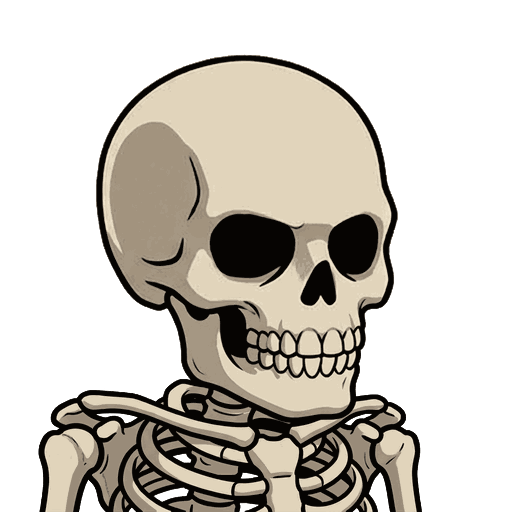
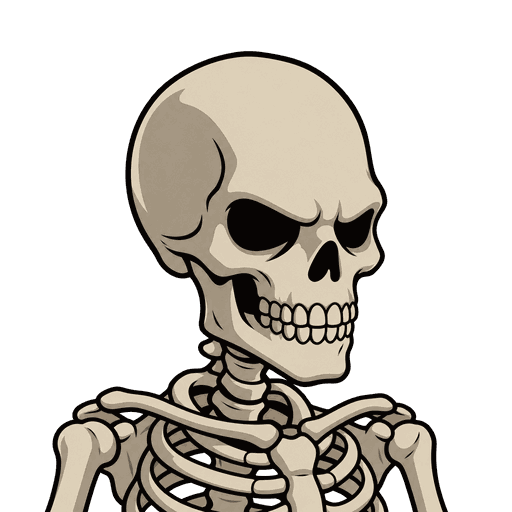
09-18 구현 — 페이퍼돌 착용 칸 강화 배지 · 스켈레톤 병사 변주 2종 · 임프 제사장 초상
- 페이퍼돌 착용 칸도 가방 칸처럼 오른쪽 위에 강화 +n 배지를 단다 (ADR-0169 · 0122 부분 대체)
- 1-3 스켈레톤 병사 1302·1303 을 같은 그림 셋에서 생성 변주(긴 두상 · 둥근 두상)로 교체 · align_faces.py READY
- 1402 임프 제사장 초상 설치 (imp_hood_rosary · 얼굴 정렬 k 1.20) · monster.csv face 0 → 1

Changed region(s): [[0.0625, 0.0938, 0.875, 1.0]]

diff --git a/src/ui/app.js b/src/ui/app.js
@@ -2037,10 +2037,12 @@ function paperdoll(h) {
             if (it) cell.style.borderColor = rarity(it.rarity).color;
             // 칸에는 글자가 없다 [2026-09-15 사용자 지시 · ADR-0122] — 부위는 실루엣이, 찬 칸은 그림과 툴팁이 말한다.
             //   부위 이름은 **빈 칸만** `title` 로 든다 — 찬 칸에 달면 아이템 툴팁 위에 브라우저 기본 툴팁이 겹친다
-            //   **예외 하나 — 아이템 레벨**이 찬 칸 오른쪽 아래에 선다 [2026-09-18 사용자 지시 · ADR-0168]:
-            //   그림도 칸 자리도 대신 말해 주지 못하는 개체값이라, 가방 칸과 견주려면 여기도 들어야 한다
+            //   **예외 — 찬 칸은 가방 칸과 같은 모서리 배지 둘**을 든다 [2026-09-18 사용자 지시]: 오른쪽 위 강화 `+n`(ADR-0169 · 0 이면 안 선다) ·
+            //   오른쪽 아래 아이템 레벨(ADR-0168). 둘 다 그림도 칸 자리도 대신 말해 주지 못하는 개체값이라, 가방 칸과 견주려면 여기도 들어야 한다
+            const us = it ? SYS.game.upgradeState(G, it.uid) : null;
             cell.innerHTML = (art ? `<span class="pd-art"><img src="${art}" alt="" loading="lazy" onerror="this.remove()"></span>`
                 : `<div class="pd-icon">${it ? itemImg(it) : def.icon}</div>`)
+                + (us && us.up > 0 ? `<span class="pd-up">+${us.up}</span>` : '')
                 + (it ? `<span class="pd-lv">${t('ch.itemLv', { n: it.ilvl })}</span>` : '');
             cell.setAttribute('aria-label', L(def));
             if (!it) cell.title = L(def);

diff --git a/src/ui/style.css b/src/ui/style.css
@@ -2342,9 +2342,10 @@ html[lang="en"] .ng-role { line-height: 1.2; }
 .inv-cells.salvage .inv-cell.filled:hover { background: var(--danger-cell-hover); }
 /* 강화 모드 — 클릭이 골드를 쓰므로 칸에 비용을 적는다 (SCREEN_DESIGN §6) */
 .inv-cell { position: relative; }
-.inv-up { position: absolute; top: 1px; right: 2px; font-size: var(--fs-xs); color: var(--color-warning); }
+/* 페이퍼돌 착용 칸도 같은 자리 · 같은 모양이다 (ADR-0169) */
+.inv-up, .pd-up { position: absolute; top: 1px; right: 2px; font-size: var(--fs-xs); color: var(--color-warning); }
 /* 오른쪽 아래 = **아이템 레벨** [2026-09-18 · ADR-0168] — 오른쪽 위 `+n`(유저가 쌓은 것)과 대각으로 마주 본다.
-   페이퍼돌 착용 칸도 같은 배지를 단다 — 칸에 서는 글자는 이것 하나다(ADR-0122 의 「글자 없음」을 그만큼 대체).
+   페이퍼돌 착용 칸도 같은 배지 둘(`+n` · `Lv.n`)을 단다 — ADR-0122 의 「글자 없음」을 그만큼 대체한다(ADR-0168 · 0169).
    아이콘이 칸 가운데라 그림이 모서리까지 번진다 — 글자를 **검은 테두리로 둘러** 그림 위에서도 읽게 한다.
    칸 배경색 그림자로는 모자랐다: 밝은 그림 위에서 글자가 묻혔다(2026-09-18 실측) */
 .inv-lv, .pd-lv {

diff --git a/.claude/skills/art-prompt/align_faces.py b/.claude/skills/art-prompt/align_faces.py
@@ -10,7 +10,7 @@ monster_idx 자리에 `'3201_elite'` 처럼 문자열을 넣으면 그 이름으
     python - <<'X'
     import sys; sys.path.insert(0, '.claude/skills/art-prompt')
     from align_faces import build, SPEC
-    for n in SPEC:
+    for n in (*SPEC, *READY):
         img, idx = build(n); img.save('src/assets/art/faces/cartoon/monster/%s.png' % idx)
     X
 """
@@ -46,12 +46,8 @@ SPEC = {
  'goblin_helm_dark'        : ('goblin_troop_2', (1035, 0, 2048, 1013),    333.5, 245.7, 1.046, 1102, 70, 16),
  'goblin_skull_helm_dark'  : ('goblin_troop_2', (0, 1035, 1013, 2048),    296.8, 246.1, 1.037, 1103, 58, 20),
  'goblin_feather_skull_elite': ('goblin_elite', (0, 1035, 1013, 2048),   296.8, 246.1, 1.037, '1103_elite', 58, 20),   # 정예 — 기본판과 같은 구도라 같은 값 · 1-1 정예는 주술사뿐이라 1 · 2번 타일은 안 쓴다
- # 1-3 은 스켈레톤 병사 하나뿐이라 세 자리가 **같은 그림**이다 (2026-09-18 사용자 지시)
- # 3차 판은 시트가 아니라 흰 배경 단일 초상 · 2차 판의 두개골을 그대로 두고 몸만 갈비뼈로 바꾼 편집본이라
- # 눈 중점(303, 245)이 2차 판과 같고 배율이 1.0 이다
+ # 1301 은 기준 맨몸 해골. 1302·1303 은 아래 READY 에 든 생성 변주다.
  'skeleton_bare_ribcage_1301': ('skel_soldier_3', (0, 0, 2048, 2048),   303.0, 245.0, 1.0, 1301, 47, 30),
- 'skeleton_bare_ribcage_1302': ('skel_soldier_3', (0, 0, 2048, 2048),   303.0, 245.0, 1.0, 1302, 47, 30),
- 'skeleton_bare_ribcage_1303': ('skel_soldier_3', (0, 0, 2048, 2048),   303.0, 245.0, 1.0, 1303, 47, 30),
  'orc_helm_tusk_pauldron'  : ('orc_troop_2', (0, 0, 506, 506),   317, 217, 1.35, 2101,   0,   4),
  'orc_hood_braid_quiver'   : ('orc_troop_2', (518, 0, 1024, 506),309, 220, 1.31, 2102,   0,   4),
  'orc_coral_skull_crown'   : ('orc_troop_2', (0, 518, 506, 1024),309, 214, 1.22, 2103,   0,   4),
@@ -61,12 +57,19 @@ SPEC = {
  'skeleton_bloodied_greathelm': ('skel_el', (0, 1035, 1013, 2048), 317.0, 255.1, 1.004, '3203_elite', 50, 30),  # 정예 — 3203 에 맞춤
  'dullahan_skull_in_hand'  : ('dullahan', (516, 0, 1024, 508),  169.0, 285.5, 1.25, 1350, -31,  35),  # 머리를 손에 든 구도 — 두개골을 왼쪽에 둬야 빈 목·척추가 원 안에 든다
 }
+# 이미 투명 배경으로 생성된 단일 초상 — (원본 파일, 설치 크기, 설치 위치, monster idx).
+# 크기·위치는 1301 의 두개골 크기와 눈높이를 기준으로 화면에서 맞췄다.
+READY = {
+ 'skeleton_bare_longskull_1302': ('skeleton_bare_longskull.png', 486, (13, 26), 1302),
+ 'skeleton_bare_roundskull_1303': ('skeleton_bare_roundskull.png', 461, (25, 51), 1303),
+}
 # 인물 안에 갇힌 초록(발광 등)이 키잉에 뚫린 자리를 메운다 — 512 타일 좌표 상자 안에서, 바깥 배경과 이어지지 않고
 # 빨강·파랑이 남아 있는(max(r,b) >= 60) 반투명만. 배경 초록(r·b ≈ 0~25)이 이빨 사이처럼 갇힌 틈은 그대로 비운다
 FILL = {'goblin_feather_skull_elite': (395, 30, 480, 160)}   # 지팡이 두개골 입속 룬 빛
 EYE = (256, 215)     # 눈 중심이 앉을 자리 (dx/dy 를 더하면 실효 y ≈ 240)
 S = 512
 ART = 'src/assets/art/faces/source/sheets/'   # 원본 시트 — 2026-09-16 정리로 sheets/ 아래로 내려갔다
+READY_ART = 'src/assets/art/faces/source/monster/'
 
 
 def key_green(tile):
@@ -121,6 +124,17 @@ def fill_holes(tile, box):
 
 
 def build(name, eye=EYE):
+    if name in READY:
+        filename, n, xy, idx = READY[name]
+        tile = Image.open(READY_ART + filename).convert('RGBA')
+        ca = np.array(tile).astype(float); al = ca[:, :, 3:4] / 255
+        pm = Image.fromarray(np.concatenate([ca[:, :, :3] * al, ca[:, :, 3:4]], 2).astype(np.uint8))
+        pm = np.array(pm.resize((n, n), Image.LANCZOS)).astype(float)
+        a2 = np.maximum(pm[:, :, 3:4], 1)
+        fitted = Image.fromarray(np.concatenate([np.clip(pm[:, :, :3] * 255 / a2, 0, 255), pm[:, :, 3:4]], 2).astype(np.uint8))
+        canvas = Image.new('RGBA', (S, S), (0, 0, 0, 0))
+        canvas.alpha_composite(fitted, xy)
+        return canvas, idx
     sheet_key, box, ex, ey, k, idx, dx, dy = SPEC[name]
     sheet = Image.open(ART + SHEETS[sheet_key]).convert('RGBA')
     keyer = key_white if sheet_key in WHITE_BG else key_green

diff --git a/docs/client/SCREEN_DESIGN.md b/docs/client/SCREEN_DESIGN.md
@@ -498,7 +498,7 @@
 
 | 패널 | 보여준다 | 결정 |
 |---|---|---|
-| 장비 | **페이퍼돌** — 신체 위치대로 착용 위치 8 (부위 7, 반지 ×2). 3열 × 3행: 투구·목걸이 / 무기·갑옷·장갑 / 반지·신발·반지 (2026-09-01 재배치 — 보조 슬롯 폐지로 4행 → 3행). 희귀도 색 테두리 · **잠기는 칸은 없다**(전 무기가 양손이라 배타가 사라졌다) · **제목 옆 집계는 없다** ([ADR-0041](adr/0041-집계-줄-폐기-네-칸의-제목은-이름뿐이다.md)) · **빈 칸은 부위 실루엣**을 깔고 이모지를 안 깐다 ([ADR-0025](adr/0025-미장착-칸-는-부위-실루엣.md)) · **칸 안의 글자는 아이템 레벨 하나** — 찬 칸 오른쪽 아래에 `Lv.n`([ADR-0168](adr/0168-아이템-칸-오른쪽-아래에-아이템-레벨이-선다.md)) · 부위 이름은 빈 칸의 `title` 이 든다 ([ADR-0122](adr/0122-페이퍼돌-칸에는-글자가-없다.md)) · **착용 칸은 아이템 그림**(§2 · 방어구는 개체 `baseId` 의 그림 — 지금은 갑옷만 있다) | 착용 칸 클릭 = **해제** |
+| 장비 | **페이퍼돌** — 신체 위치대로 착용 위치 8 (부위 7, 반지 ×2). 3열 × 3행: 투구·목걸이 / 무기·갑옷·장갑 / 반지·신발·반지 (2026-09-01 재배치 — 보조 슬롯 폐지로 4행 → 3행). 희귀도 색 테두리 · **잠기는 칸은 없다**(전 무기가 양손이라 배타가 사라졌다) · **제목 옆 집계는 없다** ([ADR-0041](adr/0041-집계-줄-폐기-네-칸의-제목은-이름뿐이다.md)) · **빈 칸은 부위 실루엣**을 깔고 이모지를 안 깐다 ([ADR-0025](adr/0025-미장착-칸-는-부위-실루엣.md)) · **찬 칸의 글자는 모서리 배지 둘** — 가방 칸과 같다: 오른쪽 위 강화 `+n`(강화했을 때만 · [ADR-0169](adr/0169-페이퍼돌-착용-칸도-강화-단계를-든다.md)) · 오른쪽 아래 `Lv.n`([ADR-0168](adr/0168-아이템-칸-오른쪽-아래에-아이템-레벨이-선다.md)) · 부위 이름은 빈 칸의 `title` 이 든다 ([ADR-0122](adr/0122-페이퍼돌-칸에는-글자가-없다.md)) · **착용 칸은 아이템 그림**(§2 · 방어구는 개체 `baseId` 의 그림 — 지금은 갑옷만 있다) | 착용 칸 클릭 = **해제** |
 | | 접사 죄종 **태그** 집계 — 세트포인트 아님(폐기). 전술카드 조건이 이 숫자를 읽으므로 **카운터는 필수**다 (tactic_card_design.md §2-1) | |
 | 기본 옵션 | **제목 줄 오른쪽 끝에 죄종 칩** — 글자 · 테두리가 **그 죄종 색**(후보 카드 칩과 같은 문법) · **맨 위에 레벨 · 경험치** — 한 줄(왼쪽 `Lv.n` · 오른쪽 `경험치 현재 / 필요`) + 그 아래 **칸 폭 전부를 쓰는 얇은 막대**(약어 배지 없음 · 능력치 막대보다 얇다 — 시작 x 와 두께가 달라 여덟째 능력치로 안 읽힌다) · 능력치 막대와는 **선 없이 간격**으로만 가른다 · **만렙(`[balance.csv:hero_level_cap]`)이면 숫자 대신 `MAX` · 막대는 가득** — 줄이 안 사라져 영웅을 바꿔도 아래가 안 흔들린다 ([ADR-0129](adr/0129-레벨-경험치는-기본-옵션-칸-맨-위-능력치-막대-위에-선다.md)) · 그 아래 기본 능력치 7 막대 — **일곱 줄의 막대가 같은 x 에서 시작한다** · 막대 폭이 범위(`[balance.csv:hero_attr_min]` ~ `[balance.csv:hero_attr_max]`) 안의 자리를 든다 — **범위 숫자 줄은 없다** · 그 아래 **액티브 스킬** — 막대와의 사이 선은 **하나**(소제목 윗선) — 액티브 3 을 **정사각 카드**로. **찬 칸은 그림 하나뿐**이다 ([ADR-0040](adr/0040-스킬-칸-는-그림-하나.md)) (이름 · 초 · 효과 문장은 **툴팁이 든다**) · **칸 아래에 출처 글자** `영웅` · `무기` · `전직` — 빈 칸 아래에도 찍고, 이 칸의 툴팁은 출처 칩을 안 단다 ([ADR-0121](adr/0121-스킬-출처는-글자로-한-번만-선다-액티브-칸-아래에-적고-툴팁-칩은-관전만-단다.md)) · **빈 칸은 파선 네모 하나**(사유는 `title` 이 든다 — 칸이 아이콘 크기라 글자가 안 들어간다). 행동 주기는 **세부 옵션 2** 의 `action_period` 행이 든다 | **[스킬 트리 열기]** → 창이 뜬다 (§7) · **[해고]** → 창이 뜬다 (아래) |
 | 세부 옵션 1 · 2 | 전투 능력치 24 중 `impl=1` **22행**을 **두 칸에 나눠 스크롤 없이** — **카테고리 제목 없이** `[combat_stat.csv:sheet_order]` 순서. **머리 3줄 = 대표값**(물리 데미지 · 마법 데미지 · 최대 HP): **글씨 크기는 본문과 같고** 값 굵기 + 그 아래 간격으로만 가른다 — **선은 없다**. **데미지 두 줄은 범위 `최소~최대`** 로 찍는다(양끝이 같으면 한 수 · [ADR-0108](adr/0108-무기-피해와-스킬-피해-회복량은-최소-최대-범위로-찍는다.md)). 1 = 대표 3 + 공격 나머지 + 물리 방어 + 저항 4 + 최대 저항 증가(13행) · 2 = 피해 감소부터 끝까지(9행 — 타격 회복이 행동 주기와 쿨타임 감소 사이에 선다). **칸마다의 집계도 약어도 안 붙인다** ([ADR-0041](adr/0041-집계-줄-폐기-네-칸의-제목은-이름뿐이다.md)) — 약어 배지는 **기본 옵션의 막대 줄에만** 선다. 저항 4행은 **값 + 그 원소의 현재 상한**(기본 상한 + 최대 저항 증가 + **그 원소의 최대 저항 증가**(투구 시기 칸 — 시트 행이 아니라 상한에만 먹는다 · 2026-09-18) — `formula.resCap`) · 물리 방어 행은 **값(정수로 반올림) + 감쇠율 %**(감쇠율은 반올림 전 값으로 낸다) | |
@@ -552,6 +552,7 @@
 - [ADR-0129](adr/0129-레벨-경험치는-기본-옵션-칸-맨-위-능력치-막대-위에-선다.md) 레벨 · 경험치는 기본 옵션 칸 맨 위, 능력치 막대 위에 선다 — 2026-09-15
 - [ADR-0166](adr/0166-기본-옵션-제목-오른쪽-끝에-죄종-칩이-선다.md) 기본 옵션 제목 오른쪽 끝에 죄종 칩이 선다 — 2026-09-18
 - [ADR-0168](adr/0168-아이템-칸-오른쪽-아래에-아이템-레벨이-선다.md) 아이템 칸 오른쪽 아래에 아이템 레벨이 선다 — 2026-09-18 **(0122 의 「찬 칸에 글자가 없다」를 그 배지 하나만큼 대체)**
+- [ADR-0169](adr/0169-페이퍼돌-착용-칸도-강화-단계를-든다.md) 페이퍼돌 착용 칸도 강화 단계를 든다 — 2026-09-18 **(0122 의 「찬 칸에 글자가 없다」를 강화 `+n` 만큼 더 대체)**
 
 ---
 

diff --git a/docs/client/adr/README.md b/docs/client/adr/README.md
@@ -67,12 +67,13 @@
 
 ## 인덱스
 
-**168건** — 살아 있는 결정 163 · 대체된 것 5. 번호는 **결정이 선 날 순**이다.
+**169건** — 살아 있는 결정 164 · 대체된 것 5. 번호는 **결정이 선 날 순**이다.
 
 > 이 표는 **ADR 파일들에서 생성한 파생 뷰**다 — 손으로 고치지 않는다. ADR 을 쓰거나 「대체됨」을 채운 뒤 `python docs/client/adr/_build_index.py` 를 돌린다.
 
 | 번호 | 제목 | 상태 | 화면 | 날짜 | 대체 관계 |
 |---|---|---|---|---|---|
+| 0169 | [페이퍼돌 착용 칸도 강화 단계를 든다](0169-페이퍼돌-착용-칸도-강화-단계를-든다.md) | 확정 | §6 | 2026-09-18 | [ADR-0122](0122-페이퍼돌-칸에는-글자가-없다.md) 중 **찬 칸의 강화 `+n`** — 부위 이름 줄 폐기 · 빈 칸 실루엣 · 찬 칸의 `title` 금지는 그대로 산다 를 대체 |
 | 0168 | [아이템 칸 오른쪽 아래에 아이템 레벨이 선다](0168-아이템-칸-오른쪽-아래에-아이템-레벨이-선다.md) | 확정 | §6 | 2026-09-18 | [ADR-0122](0122-페이퍼돌-칸에는-글자가-없다.md) 중 **찬 칸에 글자가 없다** — 이 배지 하나만. 부위 이름 줄 폐기 · 빈 칸 실루엣 · 찬 칸의 `title` 금지는 그대로 산다 를 대체 |
 | 0167 | [도감 몬스터 카드는 「일반 / 정예」 고르개로 초상만 가른다](0167-도감-몬스터-카드는-일반-정예-고르개로-초상만-가른다.md) | 확정 | §9 | 2026-09-18 | — |
 | 0166 | [기본 옵션 제목 오른쪽 끝에 죄종 칩이 선다](0166-기본-옵션-제목-오른쪽-끝에-죄종-칩이-선다.md) | 확정 | §6 | 2026-09-18 | [ADR-0041](0041-집계-줄-폐기-네-칸의-제목은-이름뿐이다.md) 중 **기본 옵션 칸의 제목**(「이름뿐」 → 오른쪽 끝에 죄종 칩) · [ADR-0023](0023-영웅에게-죄종-색을-주지-않는다.md) 중 **이 칩의 색**(무채색 → 그 죄종 색) 를 대체 |
@@ -119,7 +120,7 @@
 | 0125 | [강화 목록은 목걸이 · 반지를 빼지 않고 「강화 없음」으로 세운다](0125-강화-목록은-목걸이-반지를-빼지-않고-강화-없음으로-세운다.md) | 확정 | §8-2 | 2026-09-15 | — |
 | 0124 | [제련소는 제작 · 강화 · 크래프트 세 칸을 좌우로 나란히 둔다](0124-제련소는-제작-강화-크래프트-세-칸을-좌우로-나란히-둔다.md) | 확정 | §8-2 | 2026-09-15 | **[ADR-0142](0142-제련소는-제작-강화-크래프트를-위쪽-탭으로-가른다.md) (2026-09-15) 가 대체** |
 | 0123 | [리포트는 끝난 원정의 기록이다 — 도는 원정은 관전이 든다](0123-리포트는-끝난-원정의-기록이다-도는-원정은-관전이-든다.md) | 확정 | §4-3 | 2026-09-15 | [ADR-0072](0072-리포트가-곧-관전이다-최신-리포트의-기여-표는-재생을-따라-찬다.md) 의 **남은 것 전부**(기여 표가 시계를 따라 찬다 · 시계를 관전과 나눠 쓴다) · [ADR-0106](0106-원정-보상은-라운드를-이긴-순간-들어온다-관전은-재생이-아니라-진행이다.md) 리포트 조항의 **진행 중인 원정**(목록 맨 위 · 「진행 중」 판정 · 라운드마다 차는 목록 · 상세 · `진행 중 m:ss` 배지) 를 대체 |
-| 0122 | [페이퍼돌 칸에는 글자가 없다](0122-페이퍼돌-칸에는-글자가-없다.md) | 확정 | §6 | 2026-09-15 | **[ADR-0168](0168-아이템-칸-오른쪽-아래에-아이템-레벨이-선다.md) 이 **찬 칸의 아이템 레벨 배지**만 (글자 없음 → 오른쪽 아래 `Lv.n`). 부위 이름 줄 폐기 · 빈 칸 실루엣 · 찬 칸의 `title` 금지는 그대로 산다 — 2026-09-18 가 대체** |
+| 0122 | [페이퍼돌 칸에는 글자가 없다](0122-페이퍼돌-칸에는-글자가-없다.md) | 확정 | §6 | 2026-09-15 | **[ADR-0168](0168-아이템-칸-오른쪽-아래에-아이템-레벨이-선다.md) 이 **찬 칸의 아이템 레벨 배지**만 (글자 없음 → 오른쪽 아래 `Lv.n`). 부위 이름 줄 폐기 · 빈 칸 실루엣 · 찬 칸의 `title` 금지는 그대로 산다 — 2026-09-18 · [ADR-0169](0169-페이퍼돌-착용-칸도-강화-단계를-든다.md) 이 **찬 칸의 강화 `+n`**만 (글자 없음 → 오른쪽 위 `+n` · 가방 칸과 같은 배지 둘) — 2026-09-18 가 대체** |
 | 0121 | [스킬 출처는 글자로 한 번만 선다 · 액티브 칸 아래에 적고 툴팁 칩은 관전만 단다](0121-스킬-출처는-글자로-한-번만-선다-액티브-칸-아래에-적고-툴팁-칩은-관전만-단다.md) | 확정 | §6 | 2026-09-15 | [ADR-0040](0040-스킬-칸-는-그림-하나.md) 의 **칸 이름** 조항 를 대체 · **[ADR-0159](0159-고유-스킬-칸은-출처-글자-없이-그림-37px-로-선다.md) 이 **후보 카드 자리**만 (고유 태그가 출처를 든다 → 출처가 글자로도 칩으로도 안 선다 · 이 규칙의 예외). 나머지는 그대로 산다 가 대체** |
 | 0120 | [유닛 툴팁은 커서가 아니라 올린 카드 옆에 선다](0120-유닛-툴팁은-커서가-아니라-올린-카드-옆에-선다.md) | 확정 | §2 | 2026-09-15 ** | — |
 | 0119 | [유닛 툴팁의 대표값 3줄은 기본 카드에 늘 선다 · Alt 열은 나머지만 든다](0119-유닛-툴팁의-대표값-3줄은-기본-카드에-늘-선다-Alt-열은-나머지만-든다.md) | 확정 | §2 | 2026-09-15 ** | [ADR-0114](0114-유닛-툴팁은-캐릭터-탭-표기를-따른다-Alt-를-누르면-세부-옵션이-선다.md) 중 「세부 옵션을 상시로 두지 않는다」의 **대표값 3줄**만 · [ADR-0115](0115-유닛-툴팁의-세부-옵션은-두-열이다-머리글을-뺀다.md) 중 「세부 옵션 1 열 = 캐릭터 탭 세부 옵션 1 그대로」의 **머리 3줄**만. 끊는 자리 · 열 이름 · Alt 를 누르는 동안만은 그대로 산다 를 대체 |

diff --git a/src/assets/art/faces/cartoon/README.md b/src/assets/art/faces/cartoon/README.md
@@ -28,8 +28,11 @@
 | 1202 | 인간 궁수 [09-06 개명] | `wraith_masked_archer` | ◎ **제 그림** [09-10 교체] 짧게 친 머리 · 진홍 천으로 입을 가림 · 화살통 |
 | 1203 | 인간 기사 [09-06 개명] | `wraith_bald_captain` | ◎ **제 그림** [09-10 교체] 민머리 · 검은 수염 · 이마 흉터 · 큰 고리 걸쇠로 여민 진홍 망토 |
 | 1250 | **레기온** (스테이지 보스) | `legion_banner_longhair` | ◎ **제 그림** [09-18 새 시트] 인간 망령 셋의 장군 — 길게 늘어진 잿빛 머리 · 해골 얼굴 · 검은 판금 · 어깨 뒤 찢어진 진홍 군기. 얼굴 정렬 k 1.32 — 병사 셋과 같은 크기 · 눈높이. ⚠ 색 수 72(머리카락 결) |
-| 1301~1303 | 스켈레톤 병사 ×3 [09-17 개명] | `skeleton_bare_ribcage` | ◎ **제 그림** [09-18 교체] 맨 두개골 + **드러난 갈비뼈·쇄골** — 갑옷을 벗은 판이다. **세 자리가 같은 그림이다** — 1-3 은 스켈레톤 병사 하나뿐이다(사용자 지시). 두개골이 앞 판과 같은 자리라 눈 중점 `x 303 · y 245` 가 그대로고, 눈 사이 101px 로 3-2 스켈레톤 셋과 한 줄에 선다. **원본이 흰 배경이라 누끼 갈래가 다르다**(`align_faces.py:WHITE_BG`). 갑옷 판(`skeleton_bare_chainmail` 흙빛 · `skeleton_bare_rustmail` 붉은 녹빛)은 예비 |
+| 1301 | 스켈레톤 병사 | `skeleton_bare_ribcage` | ◎ 맨 두개골 + 드러난 갈비뼈·쇄골. 비교 기준 |
+| 1302 | 스켈레톤 병사 | `skeleton_bare_longskull` | ◎ **생성 변주** [09-18] 길고 좁은 두상 · 맨몸 뼈만. 의상·갑옷·무기 없음 |
+| 1303 | 스켈레톤 병사 | `skeleton_bare_roundskull` | ◎ **생성 변주** [09-18] 둥글고 넓은 두상 · 맨몸 뼈만. 의상·갑옷·무기 없음 |
 | 1350 | 둘라한 (스테이지 보스) | `dullahan_skull_in_hand` | ◎ **제 그림** [09-17 새 시트] 목 없는 판금 기사가 **제 두개골을 손에 들었다** — 빈 목깃 위로 척추가 솟는다. 얼굴 정렬 k 1.25 · ⚠ **두개골을 왼쪽(눈 중점 x 225)에 앉혔다** — 세트 기준(x ≈ 303)에 맞추면 빈 목이 원 밖으로 나가 둘라한으로 안 읽힌다 |
+| 1402 | 임프 제사장 | `imp_hood_rosary` | ◎ **제 그림** [09-18 새 시트 · `sheets/Gemini_Generated_Image_ggnll4ggnll4ggnl.png` 1번 타일] 기호를 새긴 후드 · 십자가 묵주 · 붉은 갈색 살결. **스테이지 4 첫 초상.** 얼굴 정렬 k 1.20 · 눈 중점 (312, 242) — 눈이 커서 눈 사이(127px)가 아니라 **얼굴 크기**를 후드 인물 2102 에 맞췄다 · 뿔 끝이 원에 조금 잘린다 |
 | 1900 | **사탄** (챕터 보스) | `satan_horns_chain` | ◎ **제 그림** [09-14] 붉은 살결 · 굽은 검은 숫양 뿔 · 목에 건 쇠사슬 · `size_type = 3`. 얼굴 정렬(§3-0) k 1.20 — 여섯 장보다 한 단계 크다 |
 | 2900 | **레비아탄** (챕터 2 챕터 보스) | `leviathan_skull_fangs` | ◎ **제 그림** [09-14] 청회 비늘 · 뼈색 두개골 얼굴 · 붉은 눈 · 송곳니 · `size_type = 3`. **챕터 2 첫 초상** · 얼굴 정렬 k 1.05 — 머리 크기를 사탄에 맞췄다 |
 | 2101 | 오크 전사 [09-16 신설] | `orc_helm_tusk_pauldron` | ◎ **제 그림** [09-17 교체] 철투구 + 뺨가리개 · 엄니를 박은 견갑 · 굵은 아래엄니. 얼굴 정렬 k 1.35 |

diff --git a/src/assets/art/faces/source/README.md b/src/assets/art/faces/source/README.md
@@ -225,15 +225,26 @@
 
 ## 몬스터 — Gem 스켈레톤 병사 3차 (`source_sheet_skeleton_soldier_3.png`) [2026-09-18]
 
-**지금 `1301~1303` 이 쓰는 그림**(사용자 지시로 아래 2차를 걷어내고 이것으로 갈았다). 시트가 아니라 **흰 배경 단일 초상 2048²** 이고, 2차 판의 두개골을 **픽셀 그대로** 두고 **몸만 드러난 갈비뼈·쇄골로** 바꾼 편집본이다 — 사슬 목가리개와 판금 어깨가 사라졌다.
+`1301` 이 쓰는 기준 그림이다. 시트가 아니라 **흰 배경 단일 초상 2048²** 이고, 2차 판의 두개골을 **픽셀 그대로** 두고 **몸만 드러난 갈비뼈·쇄골로** 바꾼 편집본이다 — 사슬 목가리개와 판금 어깨가 사라졌다. `1302·1303` 은 아래 맨몸 변주로 교체됐다.
 누끼가 이 한 장만 다르다 — 초록 키잉이 안 먹어(`d = 0`) **흰 배경 절차**를 탄다: near-white 판정 + 테두리 flood fill + 300px 이상 닫힌 포켓 제거([src/assets/art/README.md](../../README.md) 「누끼」). `align_faces.py` 의 `WHITE_BG` 가 그 갈래다.
 
 | 파일 | 타일 | 내용 | 배정 | 얼굴 정렬 |
 |---|---|---|---|---|
-| `skeleton_bare_ribcage.png` | 단일 | 맨 두개골 · 드러난 갈비뼈 · 쇄골 · 팔뼈 | `monster/1301` · `1302` · `1303` (**같은 그림 셋**) | `ex/ey 303.0/245.0` · k **1.0** · 눈 중점 `x 303 · y 245` |
+| `skeleton_bare_ribcage.png` | 단일 | 맨 두개골 · 드러난 갈비뼈 · 쇄골 · 팔뼈 | `monster/1301` | `ex/ey 303.0/245.0` · k **1.0** · 눈 중점 `x 303 · y 245` |
 
 두개골이 2차 판과 같은 자리라 **눈 중점·배율이 그대로**다(k 1.0 · 옮김 없음). 실측(누끼 원본) — `shldr` 75 · `headH` 63 · `colors` 47 · `hd/sh` **79**(갑옷을 벗어 어깨가 쇄골 폭으로 좁아졌다 — 2차 판 71) · ⚠ `edge` **21**(앵커 8~19 위 · 갈비뼈 선이 원인이고 2차 판 22 와 같은 수준).
 설치본은 256색 팔레트 PNG 라 `colors` 가 32 로 내려간다(다른 설치본 25~50 과 같은 대역) — 31KB.
+
+### 맨몸 변주 2종 [2026-09-18]
+
+`1301` 을 주 스타일 앵커로 이미지 생성 도구에서 한 장씩 만들었다. 둘 다 **투명 배경 · 맨 두개골 · 목뼈 · 쇄골 · 갈비뼈 · 팔뼈뿐**이며 의상·천·갑옷·투구·무기·화살통·장신구가 없다.
+
+| 원본 | 차이 | 설치본 |
+|---|---|---|
+| `monster/skeleton_bare_longskull.png` | 길고 좁은 두상 · 찌푸린 눈구멍 | `cartoon/monster/1302.png` |
+| `monster/skeleton_bare_roundskull.png` | 둥글고 넓은 두상 · 고른 눈구멍 | `cartoon/monster/1303.png` |
+
+생성 원본은 1254² RGBA다. `align_faces.py:READY`가 1301과 크기·눈높이를 맞춰 512²로 설치하고, 설치본은 다른 초상과 같은 256색 팔레트 PNG다. 셋은 나중에 스켈레톤 병사 한 종류를 고르기 위한 비교 후보이며, 현재 데이터 이름은 모두 `스켈레톤 병사`로 유지한다.
 
 ## 몬스터 — Gem 스켈레톤 병사 2차 (`source_sheet_skeleton_soldier_2.png`) [2026-09-18] → **같은 날 배정 해제 · 예비**
 

diff --git a/docs/client/adr/0169-페이퍼돌-착용-칸도-강화-단계를-든다.md b/docs/client/adr/0169-페이퍼돌-착용-칸도-강화-단계를-든다.md
@@ -1,0 +1,33 @@
+# ADR-0169 — 페이퍼돌 착용 칸도 강화 단계를 든다
+
+| | |
+|---|---|
+| **상태** | 확정 · 2026-09-18 |
+| **화면** | [SCREEN_DESIGN §6](../SCREEN_DESIGN.md) |
+| **정한 사람** | 사용자 지시 |
+| **대체** | [ADR-0122](0122-페이퍼돌-칸에는-글자가-없다.md) 중 **찬 칸의 강화 `+n`** — 부위 이름 줄 폐기 · 빈 칸 실루엣 · 찬 칸의 `title` 금지는 그대로 산다 |
+| **대체됨** | — |
+
+## 결정
+
+캐릭터 탭 페이퍼돌의 착용 칸도 **오른쪽 위에 강화 단계 `+n`** 을 단다 — 가방 칸과 같은 자리 · 같은 모양이고, 강화하지 않은 물건(0)에는 안 선다. 그래서 착용 칸의 글자는 **가방 칸과 같은 모서리 배지 둘**(위 `+n` · 아래 `Lv.n`)이 된다.
+
+## 맥락
+
+ADR-0168 로 착용 칸 오른쪽 아래에 아이템 레벨이 섰다. 강화 `+n` 은 가방 칸 · 리포트 드롭 칸에만 있었고 착용 칸에는 없었다 — ADR-0122 가 착용 칸의 글자를 전부 걷은 뒤로 강화 표시도 따라 빠진 채였다.
+
+사용자 지시: 「강화 수치가 착용한 아이템에는 안 보여」.
+
+## 근거
+
+- **강화는 착용한 물건에 쌓인다** — 제련소는 착용품도 강화 대상에 넣는다(§8-2). 가장 많이 강화되는 것이 끼고 있는 물건인데 그 칸만 단계를 안 들면, 강화한 결과를 보러 갈 자리가 툴팁 하나뿐이다
+- **가방 칸과 같은 문법** — 같은 물건이 가방에서는 `+3`, 끼면 사라지는 것은 「장착하면 강화가 풀린다」로 읽힐 수 있다. 자리 · 모양을 가방 칸과 똑같이 둔다
+- ADR-0122 가 걷은 것은 칸 자리가 이미 말하는 **부위 이름**이었다. 강화 단계는 레벨과 같이 **개체값**이라 그림도 자리도 대신 말해 주지 못한다(ADR-0168 과 같은 근거)
+
+## 파급
+
+- CSS — `.pd-up` 을 `.inv-up` 과 한 규칙에 묶는다(자리 · 크기 · 색이 같다)
+- i18n 키는 없다 — `+n` 은 가방 칸처럼 기호와 숫자뿐이다
+
+---
+*이 파일은 고치지 않는다. 결정이 뒤집히면 새 ADR 이 이것을 대체하고, 여기엔 「대체됨」 한 줄만 붙는다.*

diff --git a/docs/client/SCREEN_CHANGELOG.md b/docs/client/SCREEN_CHANGELOG.md
@@ -14,6 +14,7 @@
 
 ## 이력
 
+- **2026-09-18** — **페이퍼돌 착용 칸도 강화 `+n` 을 든다** [사용자 지시 · [ADR-0169](adr/0169-페이퍼돌-착용-칸도-강화-단계를-든다.md)] — 가방 칸과 같은 오른쪽 위 · 0 이면 안 선다. 착용 칸 글자 = 모서리 배지 둘(`+n` · `Lv.n`)
 - **2026-09-18** — **아이템 칸 오른쪽 아래에 아이템 레벨 `Lv.n`** [사용자 지시 · [ADR-0168](adr/0168-아이템-칸-오른쪽-아래에-아이템-레벨이-선다.md)] — 보관 · 리포트 드롭 · 페이퍼돌 착용 칸 셋 다. 오른쪽 위 강화 `+n` 과 마주 본다 · ADR-0122 「글자 없음」의 예외 하나
 - **2026-09-18** — **§2-1 로그인 화면 배경 = 챕터 1-1 스테이지 그림** [사용자 지시] — 전용 `login.webp` 를 안 읽고 `illustrate/background_stage_101.webp` 를 깐다 · 로그인은 스타일 설정 이전이라 CSS 가 폴더를 박는다(거점과 같은 예외)
 - **2026-09-18** — **§9 도감 몬스터 세그먼트에 「일반 / 정예」 고르개** [사용자 지시] — 챕터 줄 오른쪽의 버튼 둘이 **전 카드를 한 번에** 정예 얼굴(`monster.csv:face_elite`)로 갈아 끼운다 · 카드 · 수치 · 크기는 그대로 · i18n 키 0개(`kind.*` 재사용) · `?cxg=` (ADR-0167)

diff --git a/docs/client/adr/0122-페이퍼돌-칸에는-글자가-없다.md b/docs/client/adr/0122-페이퍼돌-칸에는-글자가-없다.md
@@ -6,7 +6,7 @@
 | **화면** | [SCREEN_DESIGN §6](../SCREEN_DESIGN.md) |
 | **정한 사람** | 사용자 지시 |
 | **대체** | — |
-| **대체됨** | [ADR-0168](0168-아이템-칸-오른쪽-아래에-아이템-레벨이-선다.md) 이 **찬 칸의 아이템 레벨 배지**만 (글자 없음 → 오른쪽 아래 `Lv.n`). 부위 이름 줄 폐기 · 빈 칸 실루엣 · 찬 칸의 `title` 금지는 그대로 산다 — 2026-09-18 |
+| **대체됨** | [ADR-0168](0168-아이템-칸-오른쪽-아래에-아이템-레벨이-선다.md) 이 **찬 칸의 아이템 레벨 배지**만 (글자 없음 → 오른쪽 아래 `Lv.n`). 부위 이름 줄 폐기 · 빈 칸 실루엣 · 찬 칸의 `title` 금지는 그대로 산다 — 2026-09-18 · [ADR-0169](0169-페이퍼돌-착용-칸도-강화-단계를-든다.md) 이 **찬 칸의 강화 `+n`**만 (글자 없음 → 오른쪽 위 `+n` · 가방 칸과 같은 배지 둘) — 2026-09-18 |
 
 ## 결정
 
